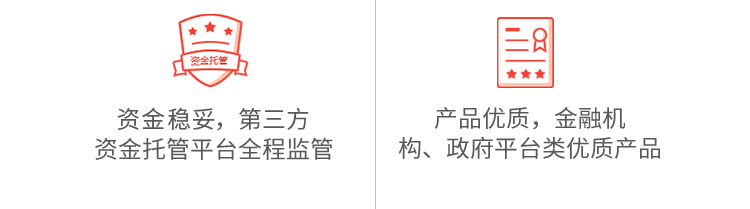
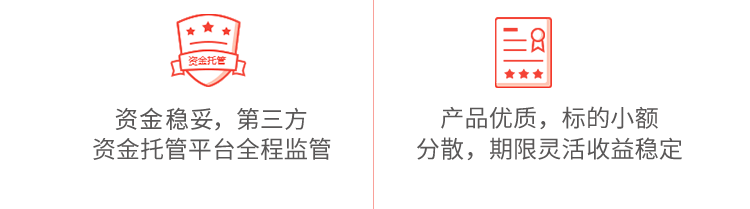
【楚天】P2P监管信息整改
Summary:
ref:T2160

- 本次修改只涉及前端
- 所涉及的有很多：
-- 关于我们 m站
-- 安全保障 pc/m
-- 邀请好友分享页面 m
-- 邀请好友页 pc/m
-- 公告底部优势 m
-- 帮助中心-安全篇 pc/m
-- 帮助中心-产品篇 pc/m
-- 底部备案号更新

Test Plan:
按照上述内容进行测试，具体链接可详见任务
- https://dx.wangcaigu.cn/T2160

Reviewers: modi

Subscribers: liufengjun

Differential Revision: https://dx.wangcaigu.cn/D3643

diff --git a/wap/web/ctcf/css/h5-180211/index.css b/wap/web/ctcf/css/h5-180211/index.css
@@ -374,7 +374,7 @@ html, body {
 }
 
 .page4 .page4-content li:nth-child(4) {
-    background: url(../../images/h5-180211/page4-content4.png?__inline) no-repeat left top;
+    background: url(../../images/h5-180211/page4-content4-new.png) no-repeat left top;
     width: 5.38rem;
     background-size: 100% 100%
 }

diff --git a/view/themes/ctcf_new/pc/views/safeguard.php b/view/themes/ctcf_new/pc/views/safeguard.php
@@ -26,22 +26,19 @@ $this->extraKeywords = '平台安全';
                     <div class="safetxt-icon ">
                         <h3>为什么在楚天财富投资是安全的？</h3>
                         <h4>（1）对接专业机构产品</h4>
-                        <p class="p-padding-lf">楚天财富理财的产品主要为各类金融机构、政信类金融产品，国有平台挂牌金融资产项目，并有多重还款保障，安享稳健高收益。</p>
-
+                        <p class="p-padding-lf">楚天财富的多款产品，灵活定制，标的分散，风险更低，且有多重还款进行保障。</p>
                         <h4>（2）坚持合法合规运营</h4>
-                        <p class="p-padding-lf">楚天财富恪守各级金融监管部门的监管要求，上线之初严格要求，坚持合法合规运营，是专业的金融理财产品服务平台。</p>
-
+                        <p class="p-padding-lf">楚天财富恪守银监会、地方金融监管部门及证监会、股转系统的监管要求，上线之初严格要求，坚持合法合规运营。</p>
                         <h4>（3）坚持资金与平台分离</h4>
                         <p class="p-padding-lf">楚天财富严守平台规范。用户投资的每一笔资金都经过第三方支付平台联动优势，一一匹配真实债权，对应每个资产项目；联动优势提供的专业综合支付系统与资金结算服务，实现交易资金与平台自有资金的隔离管理，有效防范平台自建资金池以及随意挪用资金的风险。</p>
                         <p class="p-padding-lf" style="margin-top: 1em;"><span style="font-weight: bold;">联动优势</span>：联动优势科技有限公司由中国移动、中国银联于2003年8月联合发起成立。是中国互联网金融协会理事单位、中国支付清算协会常务理事单位；联动优势已获得中国人民银行《支付业务许可证》（全国范围的互联网支付、移动电话支付、银行卡收单），中国证监会基金销售支付结算业务资格，以及国家外汇管理局北京外汇管理部跨境外汇支付试点和中国人民银行跨境人民币支付试点资质。</p>
-
                         <h4>（4）股东背景强势</h4>
-                        <p class="p-padding-lf">楚天财富（武汉）金融服务有限公司（简称楚天财富）隶属湖北日报新媒体集团，其强大的媒体公信力、专业的金融机构背景，助力楚天财富全力发展互联网金融业务，给予楚天财富理财更长足的发展动力。</p>
+                        <p class="p-padding-lf">楚天财富（武汉）金融服务有限公司（简称楚天财富）隶属湖北日报新传媒集团，其强大的媒体公信力、专业的金融机构背景，助力楚天财富全力发展互联网金融业务，给予楚天财富理财更长足的发展动力。</p>
                     </div>
 
                     <div class="safetxt-icon hide">
                         <h3>楚天财富理财的风控先进在哪？</h3>
-                        <p class="p-margin-top ">楚天财富平台自身不生产资产。获取资产的方式是通过股东资源、合作机构、团队专业性等多重维度，筛选第三方优质资产方以拓展资产端资源，将其做好风控的项目或标的放到平台上与投资者对接。这些资产方包括银行类理财产品、优质企业政信类产品等优质债权提供方。</p>
+                        <p class="p-margin-top">楚天财富平台自身不生产资产。获取资产的方式是通过股东资源、合作机构、团队专业性等多重维度，筛选第三方优质资产方以拓展资产端资源，将其做好风控的项目或标的放到平台上与投资者对接。</p>
                     </div>
 
                     <div class="safetxt-icon hide">

diff --git a/view/themes/ctcf_new/pc/views/helpcenter/product.php b/view/themes/ctcf_new/pc/views/helpcenter/product.php
@@ -22,15 +22,12 @@ $this->title = "帮助中心";
 <!--                        <p><b>楚股投：</b>楚天财富甄选优秀的股权投资基金管理机构，推出“楚股投”系列产品。以私募基金形式，向合资格投资者定向非公开开放。预期回报3-6倍，100万元起投，投资期限2~5年。</p>-->
 <!--                    </div>-->
                     <div class="row single">
-                        <h1>特点和优势：</h1>
-                        <p>1、期限灵活：长中短期项目丰富，适合不同理财客户需求；
-                        </p>
-                        <p>2、风险可控：产品由各类金融机构发行，大型国有平台担保，金融资产交易机构风控审核，全流程全环节监控资金用途，把握回款资金的安全性；
-                        </p>
-                        <p>3、信息安全：专业第三方资金托管平台对资金全程监控保护，平台自身资深技术团队保证用户个人信息安全；
-                        </p>
-                        <p>4、背景强劲：省委机关报业集团旗下子公司，全国首家挂牌新三板省级重点新闻网站媒体支持，信誉保证。
-                        </p></div>
+                        <h1>项目优势：</h1>
+                        <p>1、期限灵活：长中短期项目丰富，适合不同客户需求；</p>
+                        <p>2、风险可控：产品由大型国有平台担保，金融资产交易机构风控审核，全流程全环节监控资金用途，把握回款资金的安全性；</p>
+                        <p>3、信息安全：专业第三方资金托管平台对资金全程监控保护，平台自身资深技术团队保证用户个人信息安全；</p>
+                        <p>4、背景强劲：省委机关报业集团旗下子公司，全国首家挂牌新三板省级重点新闻网站媒体支持，信誉保证。</p>
+                    </div>
                     <div class="row single">
                         <h1>收益计算：</h1>
                         <p>项目成立次日计息，项目的还款方式分为分期及到期本息项目。年化利率按365天计算。计算公式：利息=（本金*年化率/365）* N天。

diff --git a/view/themes/ctcf_new/m/views/site/help_product.php b/view/themes/ctcf_new/m/views/site/help_product.php
@@ -18,8 +18,8 @@ $this->title="帮助中心";
 <!--        </div>-->
         <div class="row single">
             <h1>项目优势：</h1>
-            <p>1、期限灵活：长中短期项目丰富，适合不同理财客户需求；
-            <p>2、风险可控：产品由各类金融机构发行，大型国有平台担保，金融资产交易机构风控审核，全流程全环节监控资金用途，把握回款资金的安全性；
+            <p>1、期限灵活：长中短期项目丰富，适合不同客户需求；
+            <p>2、风险可控：产品由大型国有平台担保，金融资产交易机构风控审核，全流程全环节监控资金用途，把握回款资金的安全性；
             <p>3、信息安全：专业第三方资金托管平台对资金全程监控保护，平台自身资深技术团队保证用户个人信息安全；
             <p>4、背景强劲：省委机关报业集团旗下子公司，全国首家挂牌新三板省级重点新闻网站媒体支持，信誉保证。
         </div>

diff --git a/view/themes/ctcf_new/m/views/site/help_security.php b/view/themes/ctcf_new/m/views/site/help_security.php
@@ -16,7 +16,7 @@ $this->extraKeywords = '平台安全';
             <h1>楚天财富平台安全常见问题：</h1><br>
             <h1>1、为什么在楚天财富投资是安全的？</h1>
             <p class="single-title">（1）对接专业机构产品
-            <p>楚天财富理财的产品主要为各类金融机构、政信类金融产品，国有平台挂牌金融资产项目，并有多重还款保障，安享稳健高收益。
+            <p>楚天财富产品优质，标的小额且分散，期限灵活，收益稳定，并有多重还款保障，安享稳健高收益。
             <p class="single-title">（2）坚持合法合规运营
             <p>楚天财富恪守各级金融监管部门的监管要求，上线之初严格要求，坚持合法合规运营，是专业的金融理财产品服务平台。
             <p class="single-title">（3）坚持资金与平台分离

diff --git a/view/themes/ctcf_new/m/views/safeguard/major-regard.php b/view/themes/ctcf_new/m/views/safeguard/major-regard.php
@@ -11,7 +11,7 @@ $this->registerCssFile(ASSETS_BASE_URI . 'ctcf/css/safeguard/major.min.css');
         <h5>为什么在楚天财富投资是安全的？</h5>
     </div>
     <h6 class="major-title-retract">（1）对接专业机构产品</h6>
-    <p>楚天财富理财的产品主要为各类金融机构产品、优质企业政信类产品，国有平台挂牌金融资产项目，风险更低，且有多重还款进行保障。</p>
+    <p>楚天财富的多款产品，灵活定制，标的分散，风险更低，且有多重还款进行保障。</p>
     <h6 class="major-title-retract">（2）坚持合法合规运营</h6>
     <p>楚天财富恪守银监会、地方金融监管部门及证监会、股转系统的监管要求，上线之初严格要求，坚持合法合规运营。</p>
     <h6 class="major-title-retract">（3）坚持资金与平台分离</h6>

diff --git a/view/themes/ctcf_new/m/views/safeguard/risk-regard.php b/view/themes/ctcf_new/m/views/safeguard/risk-regard.php
@@ -11,5 +11,6 @@ $this->registerCssFile(ASSETS_BASE_URI . 'ctcf/css/safeguard/major.min.css');
     <div class="major-title-msg">
         <h5>楚天财富理财的风控先进在哪？</h5>
     </div>
-    <p>楚天财富平台自身不生产资产。获取资产的方式是通过股东资源、合作机构、团队专业性等多重维度，筛选第三方优质资产方以拓展资产端资源，将其做好风控的项目或标的放到平台上与投资者对接。这些资产方包括银行类理财产品、优质企业政信类产品等优质债权提供方。</p>
+    <p>楚天财富平台自身不生产资产。获取资产的方式是通过股东资源、合作机构、团队专业性等多重维度，筛选第三方优质资产方以拓展资产端资源，将其做好风控的项目或标的放到平台上与投资者对接。</p>
 </div>
+

diff --git a/view/themes/ctcf_new/m/views/site/advantage.php b/view/themes/ctcf_new/m/views/site/advantage.php
@@ -127,7 +127,7 @@
         <p class="suojin">绑定本人银行卡，提现只进本人账户；</p>
         <p class="suojin">层层风控，专业稳健，合法合规；</p>
         <p class="h-num"><a href="javascript:;" class="number">4</a>产品<span>优质</span></p>
-        <p class="suojin">主流金融机构产品、优质政府平台类产品、</p>
+        <p class="suojin">产品优质，标的小额分散，期限灵活收益稳定，</p>
         <p class="suojin">优质供应链金融产品，期限多样，收益可观；</p>
         <p class="h-num"><a href="javascript:;" class="number">5</a><span>灵活</span>便捷</p>
         <p class="suojin">网上有平台，线下有门店，楚天财富在您身边</p>

diff --git a/view/themes/ctcf_new/m/views/site/company_desc.php b/view/themes/ctcf_new/m/views/site/company_desc.php
@@ -20,7 +20,7 @@ $this->title = '关于我们';
             <?= Html::csrfMetaTags() ?>
             <?php $this->head() ?>
             <link rel="stylesheet" href="<?= FE_BASE_URI ?>libs/animate/animate.min.css?v=20161124">
-            <link rel="stylesheet" href="<?= ASSETS_BASE_URI ?>ctcf/css/h5-180211/index.css?v=20180223123">
+            <link rel="stylesheet" href="<?= ASSETS_BASE_URI ?>ctcf/css/h5-180211/index.css?v=20180307">
             <script src="<?= FE_BASE_URI ?>libs/lib.flexible2.js?v=20161124"></script>
             <script src="<?= FE_BASE_URI ?>libs/fastclick.js?v=20161124"></script>
             <script src="<?= FE_BASE_URI ?>libs/pageslider/zepto_modify.js?v=20161124"></script>

diff --git a/view/themes/ctcf_new/m/views/luodiye/luodiye.php b/view/themes/ctcf_new/m/views/luodiye/luodiye.php
@@ -108,7 +108,7 @@ $this->registerJsFile(FE_BASE_URI.'wap/luodiye/js/luodiye.js?v=20180118', ['depe
                 <h3>为什么选择楚天财富？</h3>
                 <div class="choose-content">
                     <img src="<?= ASSETS_BASE_URI ?>images/luodiye/choose_new.png" alt="">
-                    <img src="<?= ASSETS_BASE_URI ?>images/luodiye/why-wdjf-new.png" alt="">
+                    <img src="<?= ASSETS_BASE_URI ?>images/luodiye/why-wdjf-new.png?v=20180307" alt="">
                 </div>
             </div>
             <a class="link-last" href="/deal/deal/index/">立即认购</a>

diff --git a/view/themes/ctcf_new/pc/views/luodiye/luodiye.php b/view/themes/ctcf_new/pc/views/luodiye/luodiye.php
@@ -136,8 +136,8 @@ use yii\captcha\Captcha;
 
             <div class="choose-single choose-fourth">
                 <div class="single-back"></div>
-                <p>产品优质，金融机</p>
-                <p>构、政府平台类优质产品</p>
+                <p>产品优质，标的小额</p>
+                <p>分散，期限灵活收益稳定</p>
             </div>
         </div>
         <a class="link-last" href="/licai/">立即赚钱</a><br>

diff --git a/view/themes/ctcf_new/pc/views/footer.php b/view/themes/ctcf_new/pc/views/footer.php
@@ -45,7 +45,7 @@ $this->registerCssFile(ASSETS_BASE_URI.'ctcf/css/footer.min.css', ['depends' => 
     </div>
     <div class="footer-bottom ctcf-container fz14">
         <p>楚天财富（武汉）金融服务有限公司&nbsp;&nbsp;&nbsp;&nbsp;&nbsp;&nbsp;武汉市武昌区东湖路181号楚天文化创意产业园区8号楼1层</p>
-        <p>鄂ICP备15002057号</p>
+        <p>鄂ICP备15002057号-1</p>
     </div>
 </div>
 
